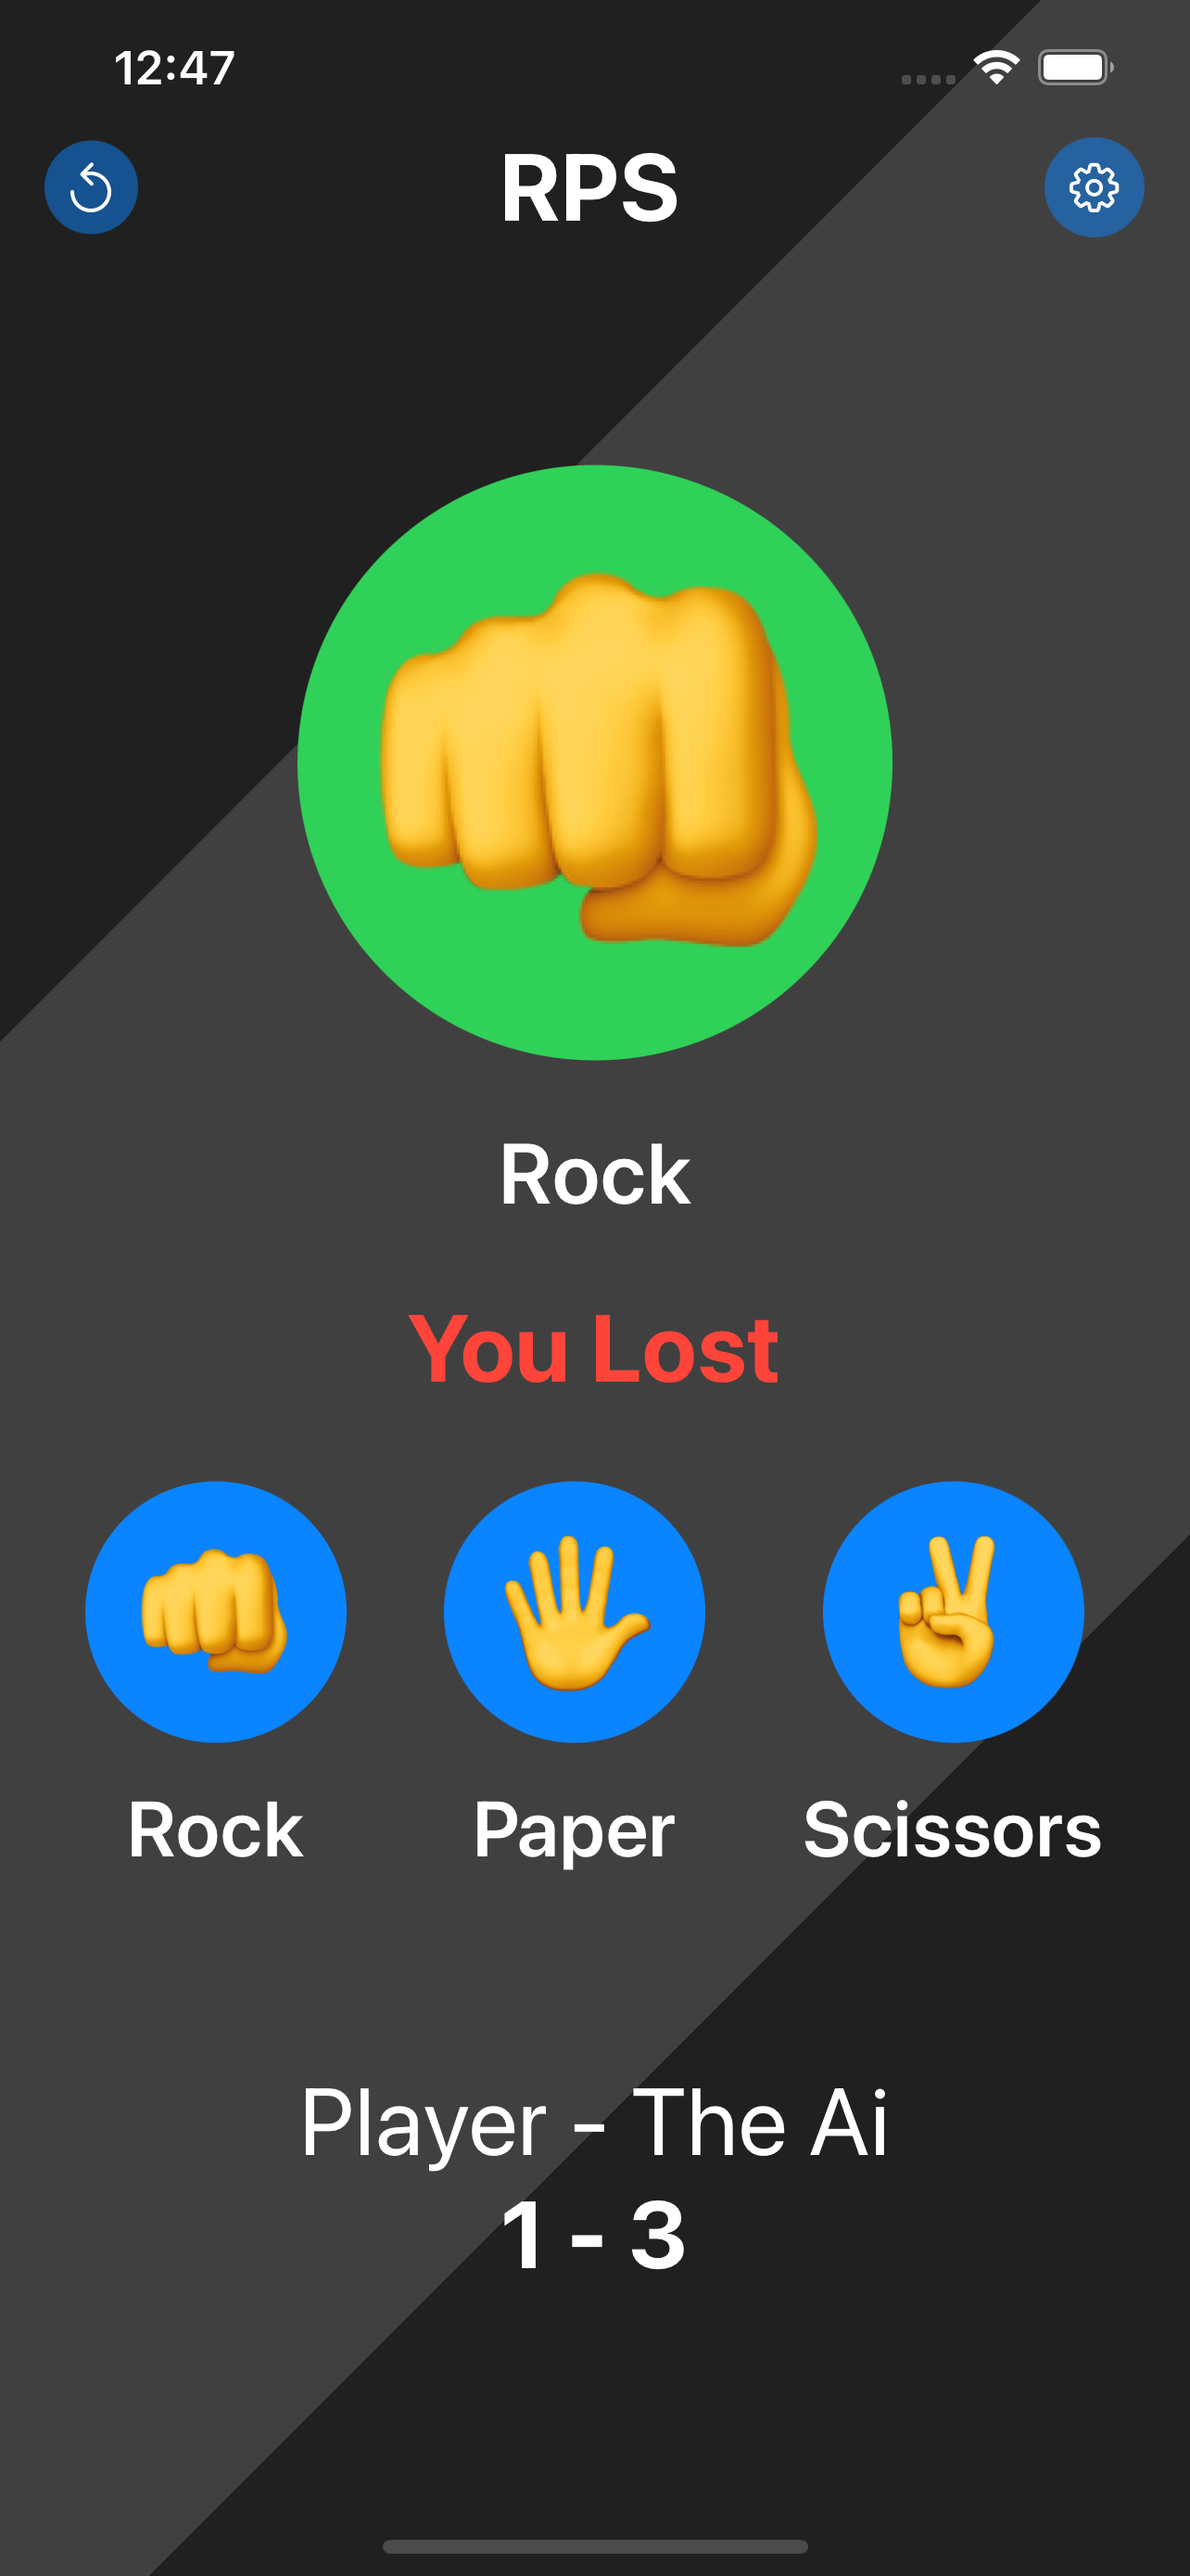
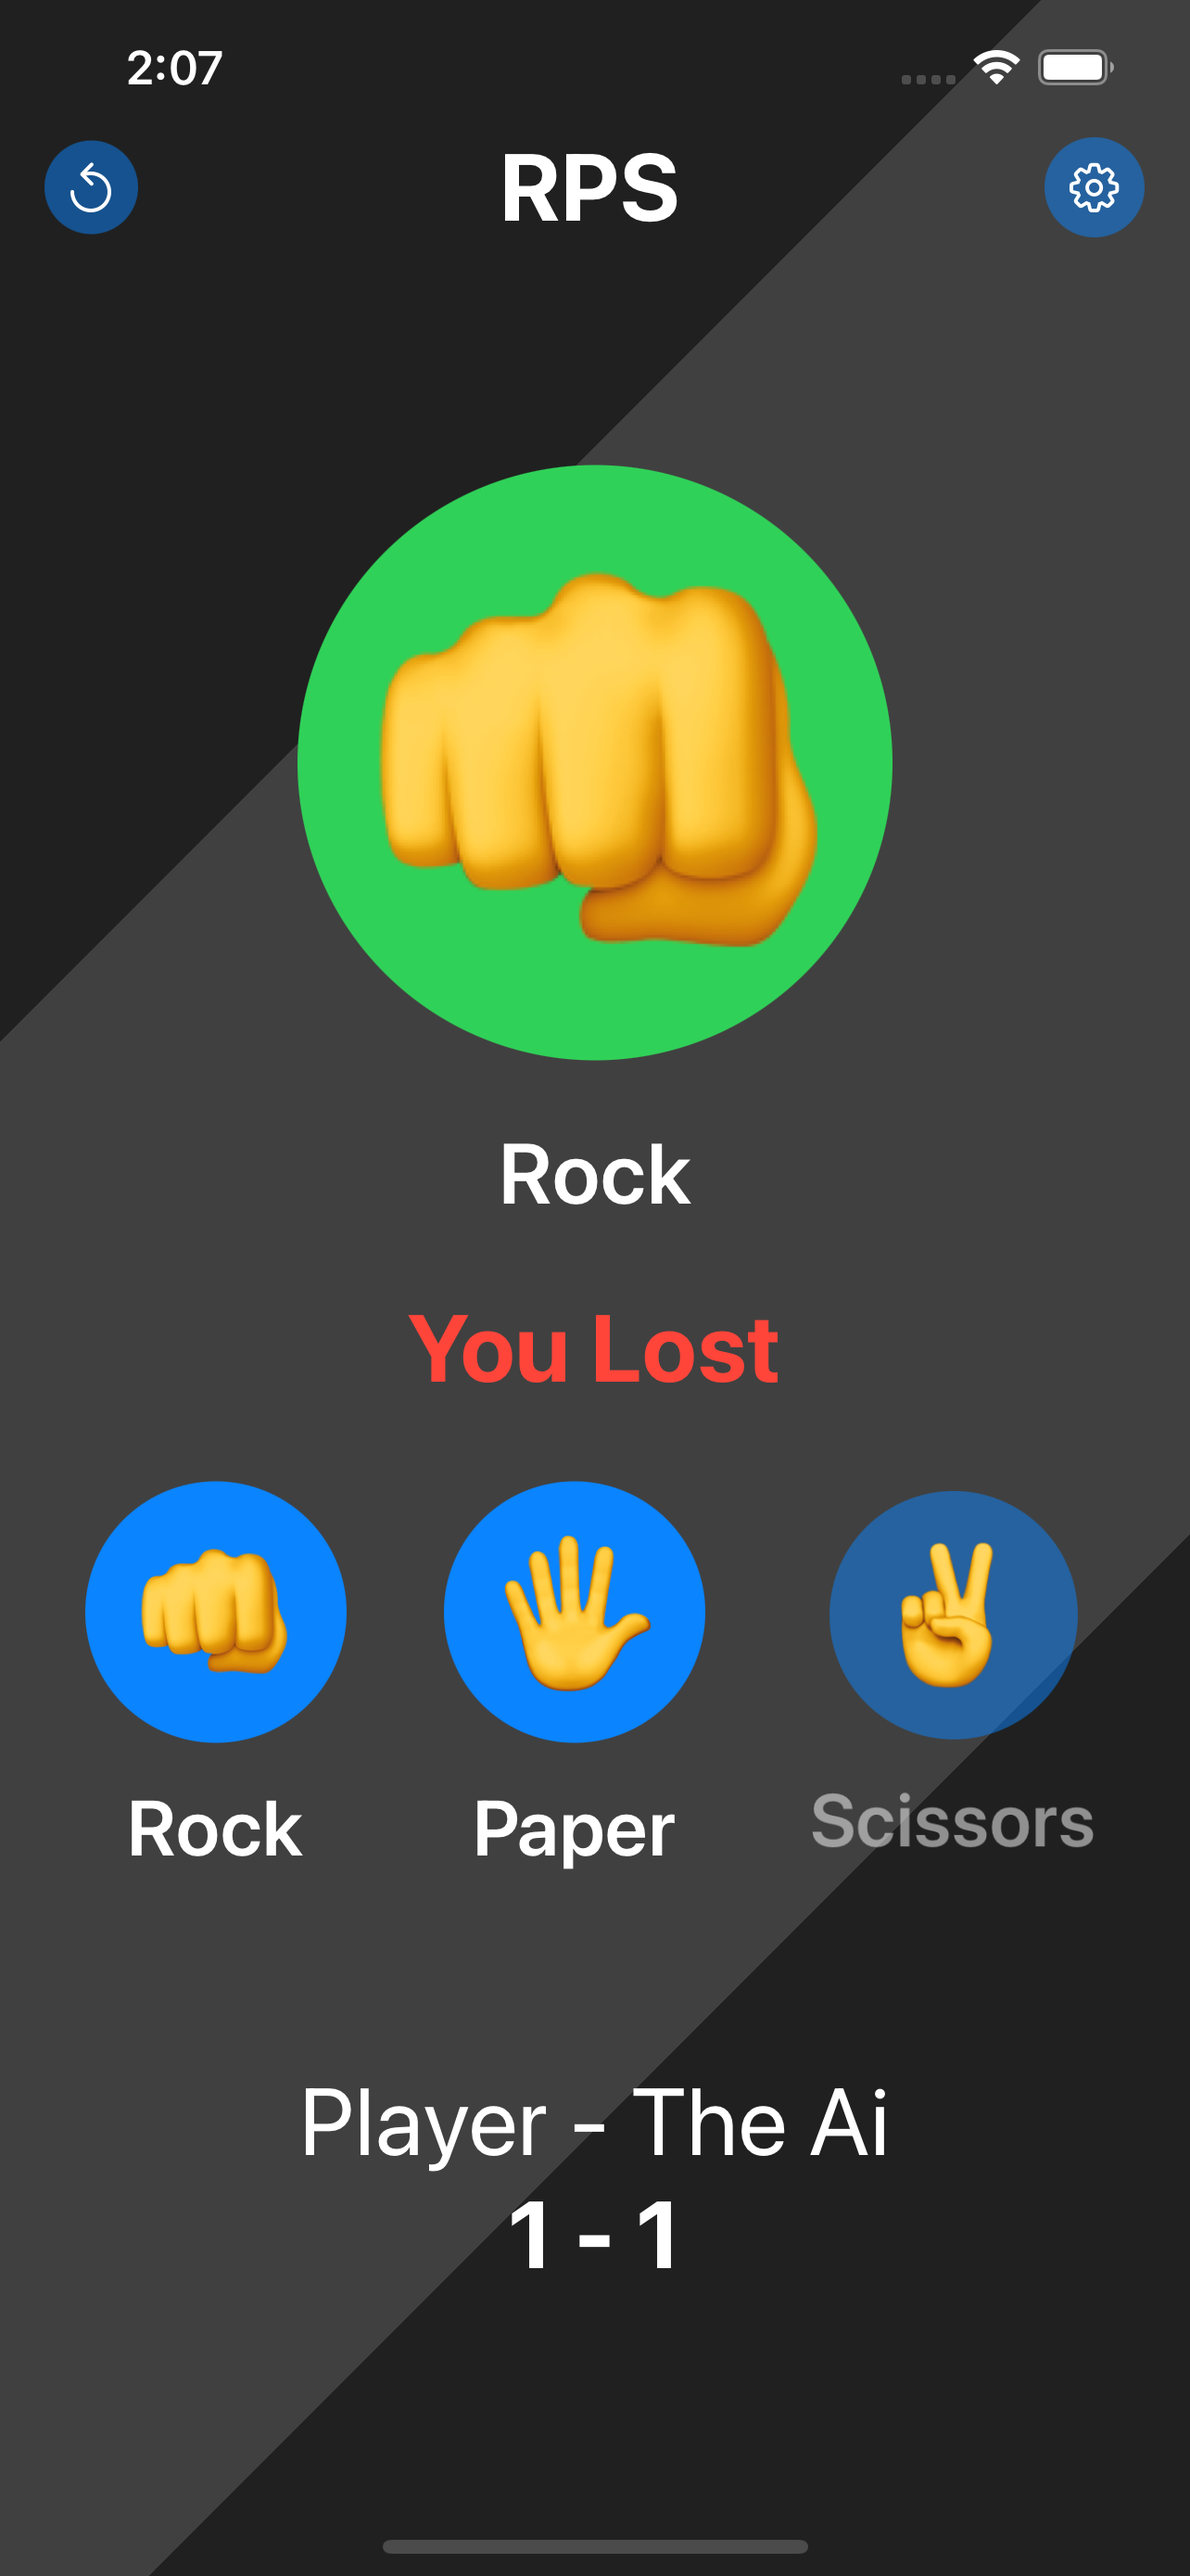
Refactor views to be more reusable by restricting direct access to `GameViewModel`.
This commit also converts `EnvironmentObject`s to be `ObservedObject`s so they aren't being injected into views that may not need it and to better visualize which views are using the `GameViewModel`

diff --git a/Rock Paper Scissors/Views/GameView.swift b/Rock Paper Scissors/Views/GameView.swift
@@ -8,8 +8,7 @@
 import SwiftUI
 
 struct GameView: View {
-	@EnvironmentObject var vm: GameViewModel
-	let model = GameModel()
+	@ObservedObject var vm: GameViewModel
 	
 	var body: some View {
 		GeometryReader { proxy in
@@ -19,7 +18,8 @@ struct GameView: View {
 
 				// Foreground
 				VStack {
-					CustomTopBarView().padding(.horizontal)
+					CustomTopBarView(vm: vm)
+						.padding(.horizontal)
 
 					Spacer()
 
@@ -27,31 +27,31 @@ struct GameView: View {
 						// Ai
 						AICard(
 							proxy: proxy,
-							isShowing: $vm.isShowing,
-							playerShouldWin: $vm.shouldWin,
-							model: model,
-							ai: vm.ai
+							symbol: GameModel.rpsChoices[vm.aiIndex].symbol,
+							title: GameModel.rpsChoices[vm.aiIndex].word,
+							onShowCondition: vm.isShowing,
+							shouldWinCondition: vm.shouldWin
 						)
 						// Win/Lose text
 						WinTextView(
 							proxy: proxy,
-							isShowing: $vm.isShowing,
-							shouldWin: $vm.shouldWin
+							isShowing: vm.isShowing,
+							shouldWin: vm.shouldWin
 						).padding(.top, 5)
 					}
 
 					// Player
 					HStack(spacing: 35) {
 						ForEach(0..<3) { index in
-							Button() {
-								vm.player = index
-								vm.check(player: vm.player)
-							} label: {
-								ButtonImage(
-									proxy: proxy,
-									index: index,
-									model: model
-								)
+							OptionButton(
+								proxy: proxy,
+								symbol: GameModel.rpsChoices[index].symbol,
+								title: GameModel.rpsChoices[index].word,
+								onPressCondition: (vm.isShowing && index == vm.playerIndex)
+							)
+								.onTapGesture {
+								vm.playerIndex = index
+								vm.check(player: vm.playerIndex)
 							}
 						}
 					}
@@ -60,11 +60,9 @@ struct GameView: View {
 
 					// Score
 					ScoreView(
-						proxy: proxy,
 						playerScore: vm.playerScore,
 						aiScore: vm.aiScore
 					)
-
 
 					Spacer()
 				}
@@ -77,8 +75,6 @@ struct GameView: View {
 
 struct RPSView_Previews: PreviewProvider {
 	static var previews: some View {
-		GameView()
-			.environmentObject(GameViewModel())
-			.preferredColorScheme(.dark)
+		GameView(vm: .init())
 	}
 }

diff --git a/Rock Paper Scissors/Views/GameView Components/AICard.swift b/Rock Paper Scissors/Views/GameView Components/AICard.swift
@@ -9,26 +9,26 @@ import SwiftUI
 
 struct AICard: View {
 	let proxy: GeometryProxy
-	@Binding var isShowing: Bool
-	@Binding var playerShouldWin: Bool
-	let model: GameModel
-	let ai: Int
+	let symbol: String
+	let title: String
+	let onShowCondition: Bool
+	let shouldWinCondition: Bool
 	
 	var body: some View {
 		VStack {
-			Text(isShowing ? model.choices[ai].symbol : " ")
+			Text(onShowCondition ? symbol : " ")
 				.font(.system(size: proxy.size.width/2.5))
 				.padding()
 				.background(
 					Circle()
-						.foregroundColor(!isShowing ? .yellow : playerShouldWin ? .red : .green)
+						.foregroundColor(!onShowCondition ? .yellow : shouldWinCondition ? .red : .green)
 						.frame(
-							width: isShowing ? nil : proxy.size.width/2,
-							height: isShowing ? nil : proxy.size.width/2
+							width: onShowCondition ? nil : proxy.size.width/2,
+							height: onShowCondition ? nil : proxy.size.width/2
 						)
 				)
 
-			Text(isShowing ? model.choices[ai].word : "???")
+			Text(onShowCondition ? title : "???")
 				.font(.system(size: proxy.size.width/14).bold())
 				.foregroundColor(.white)
 
@@ -42,10 +42,13 @@ struct AICard_Previews: PreviewProvider {
 			ZStack {
 				BGView(proxy: proxy)
 				HStack {
-					AICard(proxy: proxy, isShowing: .constant(true),
-						   playerShouldWin: .constant(false),
-						   model: .init(),
-						   ai: 0)
+					AICard(
+						proxy: proxy,
+						symbol: GameModel.rpsChoices[1].symbol,
+						title: GameModel.rpsChoices[1].word,
+						onShowCondition: true,
+						shouldWinCondition: true
+					)
 				}
 			}
 		}

diff --git a/Rock Paper Scissors/Views/GameView Components/OptionButton.swift b/Rock Paper Scissors/Views/GameView Components/OptionButton.swift
@@ -1,0 +1,57 @@
+//
+//  ButtonImage.swift
+//  Rock Paper Scissors
+//
+//  Created by Yash Shah on 21/09/2021.
+//
+
+import SwiftUI
+
+struct OptionButton: View {
+	let proxy: GeometryProxy
+	let symbol: String
+	let title: String
+	let onPressCondition: Bool
+
+	var body: some View {
+		VStack {
+			Text(symbol)
+				.font(.system(size: proxy.size.width/7.5))
+				.padding()
+				.background(
+					Circle()
+						.foregroundColor(onPressCondition ? .blue.opacity(0.5) : .blue)
+				)
+
+			Text(title)
+				.font(.system(.title))
+				.font(.callout)
+				.fontWeight(.semibold)
+				.foregroundColor(onPressCondition ? .white.opacity(0.5) : .white)
+		}.scaleEffect(onPressCondition ? 0.95 : 1)
+	}
+}
+
+struct ButtonImage_Previews: PreviewProvider {
+	static var previews: some View {
+		GeometryReader { proxy in
+			ZStack {
+				BGView(proxy: proxy)
+				HStack {
+					OptionButton(
+						proxy: proxy,
+						symbol: GameModel.rpsChoices[1].symbol,
+						title: GameModel.rpsChoices[1].word,
+						onPressCondition: true
+					)
+					OptionButton(
+						proxy: proxy,
+						symbol: GameModel.rpsChoices[1].symbol,
+						title: GameModel.rpsChoices[1].word,
+						onPressCondition: false
+					)
+				}
+			}
+		}
+	}
+}

diff --git a/Rock Paper Scissors/Mode+ViewModel/GameViewModel.swift b/Rock Paper Scissors/Mode+ViewModel/GameViewModel.swift
@@ -9,11 +9,11 @@ import SwiftUI
 
 class GameViewModel: ObservableObject {
 	// Ai
-	@Published var ai = 0
+	@Published var aiIndex = 0
 	@Published var aiScore = 0
 
 	// Player
-	@Published var player = 0
+	@Published var playerIndex = 0
 	@Published var playerScore = 0
 	
 	// should show ai response
@@ -32,17 +32,17 @@ class GameViewModel: ObservableObject {
 		
 		if shouldWin == true {
 			switch player {
-				case 0: ai = 2
-				case 1: ai = 0
-				default: ai = 1
+				case 0: aiIndex = 2
+				case 1: aiIndex = 0
+				default: aiIndex = 1
 			}
 			self.playerScore += 1
 			
 		} else {
 			switch player {
-				case 0: ai = 1
-				case 1: ai = 2
-				default: ai = 0
+				case 0: aiIndex = 1
+				case 1: aiIndex = 2
+				default: aiIndex = 0
 			}
 			self.aiScore += 1
 		}
@@ -54,10 +54,10 @@ class GameViewModel: ObservableObject {
 	}
 
 	func reset() {
-		ai = 0
+		aiIndex = 0
 		aiScore = 0
 
-		player = 0
+		playerIndex = 0
 		playerScore = 0
 
 		isShowing = false

diff --git a/Rock Paper Scissors/Views/ContentView.swift b/Rock Paper Scissors/Views/ContentView.swift
@@ -8,14 +8,14 @@
 import SwiftUI
 
 struct ContentView: View {
-	@EnvironmentObject var vm: GameViewModel
+	@StateObject var vm = GameViewModel()
 
     var body: some View {
 		NavigationView {
-			GameView()
+			GameView(vm: vm)
 				.navigationBarHidden(true)
 				.sheet(isPresented: $vm.isShowingSettings) {
-					SettingsView()
+					SettingsView(vm: vm)
 				}
 		}.navigationViewStyle(.stack)
     }
@@ -24,7 +24,5 @@ struct ContentView: View {
 struct ContentView_Previews: PreviewProvider {
     static var previews: some View {
 		ContentView()
-			.environmentObject(GameViewModel())
-			.preferredColorScheme(.dark)
     }
 }

diff --git a/Rock Paper Scissors/Views/GameView Components/WinTextView.swift b/Rock Paper Scissors/Views/GameView Components/WinTextView.swift
@@ -9,8 +9,8 @@ import SwiftUI
 
 struct WinTextView: View {
 	let proxy: GeometryProxy
-	@Binding var isShowing: Bool
-	@Binding var shouldWin: Bool
+	let isShowing: Bool
+	let shouldWin: Bool
 	
     var body: some View {
 		Text(!isShowing ? "." : shouldWin ? "You won" : "You Lost")
@@ -25,7 +25,7 @@ struct WinTextView_Previews: PreviewProvider {
 		GeometryReader { proxy in
 			ZStack {
 				BGView(proxy: proxy)
-				WinTextView(proxy: proxy, isShowing: .constant(true), shouldWin: .constant(true))
+				WinTextView(proxy: proxy, isShowing: true, shouldWin: true)
 			}
 		}
     }

diff --git a/Rock Paper Scissors/Views/GameView Components/CustomTopBar.swift b/Rock Paper Scissors/Views/GameView Components/CustomTopBar.swift
@@ -8,7 +8,7 @@
 import SwiftUI
 
 struct CustomTopBarView: View {
-	@EnvironmentObject var vm: GameViewModel
+	@ObservedObject var vm: GameViewModel
 
 	var body: some View {
 		HStack {
@@ -39,12 +39,12 @@ struct CustomTopBar_Previews: PreviewProvider {
 			ZStack {
 				BGView(proxy: proxy)
 				VStack {
-					CustomTopBarView()
+					CustomTopBarView(vm: .init())
 						.padding(.horizontal)
-						.environmentObject(GameViewModel())
 					Spacer()
 				}
 			}
-		}.preferredColorScheme(.dark)
+		}
+		.environmentObject(GameViewModel())
 	}
 }

diff --git a/Rock Paper Scissors/Views/SettingsView.swift b/Rock Paper Scissors/Views/SettingsView.swift
@@ -8,6 +8,7 @@
 import SwiftUI
 
 struct SettingsView: View {
+	@ObservedObject var vm: GameViewModel
 	private let linksUrl = URL(string: "https://linktr.ee/YSBoomOfficial")!
 	private let repoURL = URL(string: "https://github.com/YSBoomOfficial/Rock-Paper-Scissors")!
 
@@ -40,7 +41,7 @@ struct SettingsView: View {
 
 struct SettingsView_Previews: PreviewProvider {
 	static var previews: some View {
-		SettingsView()
+		SettingsView(vm: .init())
 			.preferredColorScheme(.dark)
 	}
 }

diff --git a/Rock Paper Scissors/Views/GameView Components/ScoreView.swift b/Rock Paper Scissors/Views/GameView Components/ScoreView.swift
@@ -8,7 +8,6 @@
 import SwiftUI
 
 struct ScoreView: View {
-	let proxy: GeometryProxy
 	let playerScore: Int
 	let aiScore: Int
 	
@@ -27,9 +26,8 @@ struct ScoreView_Previews: PreviewProvider {
 		GeometryReader { proxy in
 			ZStack {
 				BGView(proxy: proxy)
-				ScoreView(proxy: proxy, playerScore: 0, aiScore: 0)
+				ScoreView(playerScore: 0, aiScore: 0)
 			}
-
 		}
     }
 }

diff --git a/Rock Paper Scissors/RPSApp.swift b/Rock Paper Scissors/RPSApp.swift
@@ -9,12 +9,9 @@ import SwiftUI
 
 @main
 struct RPSApp: App {
-	@StateObject var vm = GameViewModel()
-	
     var body: some Scene {
         WindowGroup {
 			ContentView()
-				.environmentObject(vm)
 				.onAppear {
 					// MARK: Uncomment before prod
 					// AppReviewRequest.requestReviewIfNeeded()

diff --git a/Rock Paper Scissors/Mode+ViewModel/GameModel.swift b/Rock Paper Scissors/Mode+ViewModel/GameModel.swift
@@ -7,8 +7,8 @@
 
 import Foundation
 
-struct GameModel {
-	let choices: [(word: String, symbol: String)] = [
+enum GameModel {
+	static let rpsChoices: [(word: String, symbol: String)] = [
 		(word: "Rock", symbol: "👊"),
 		(word: "Paper", symbol: "🖐"),
 		(word: "Scissors", symbol: "✌")
